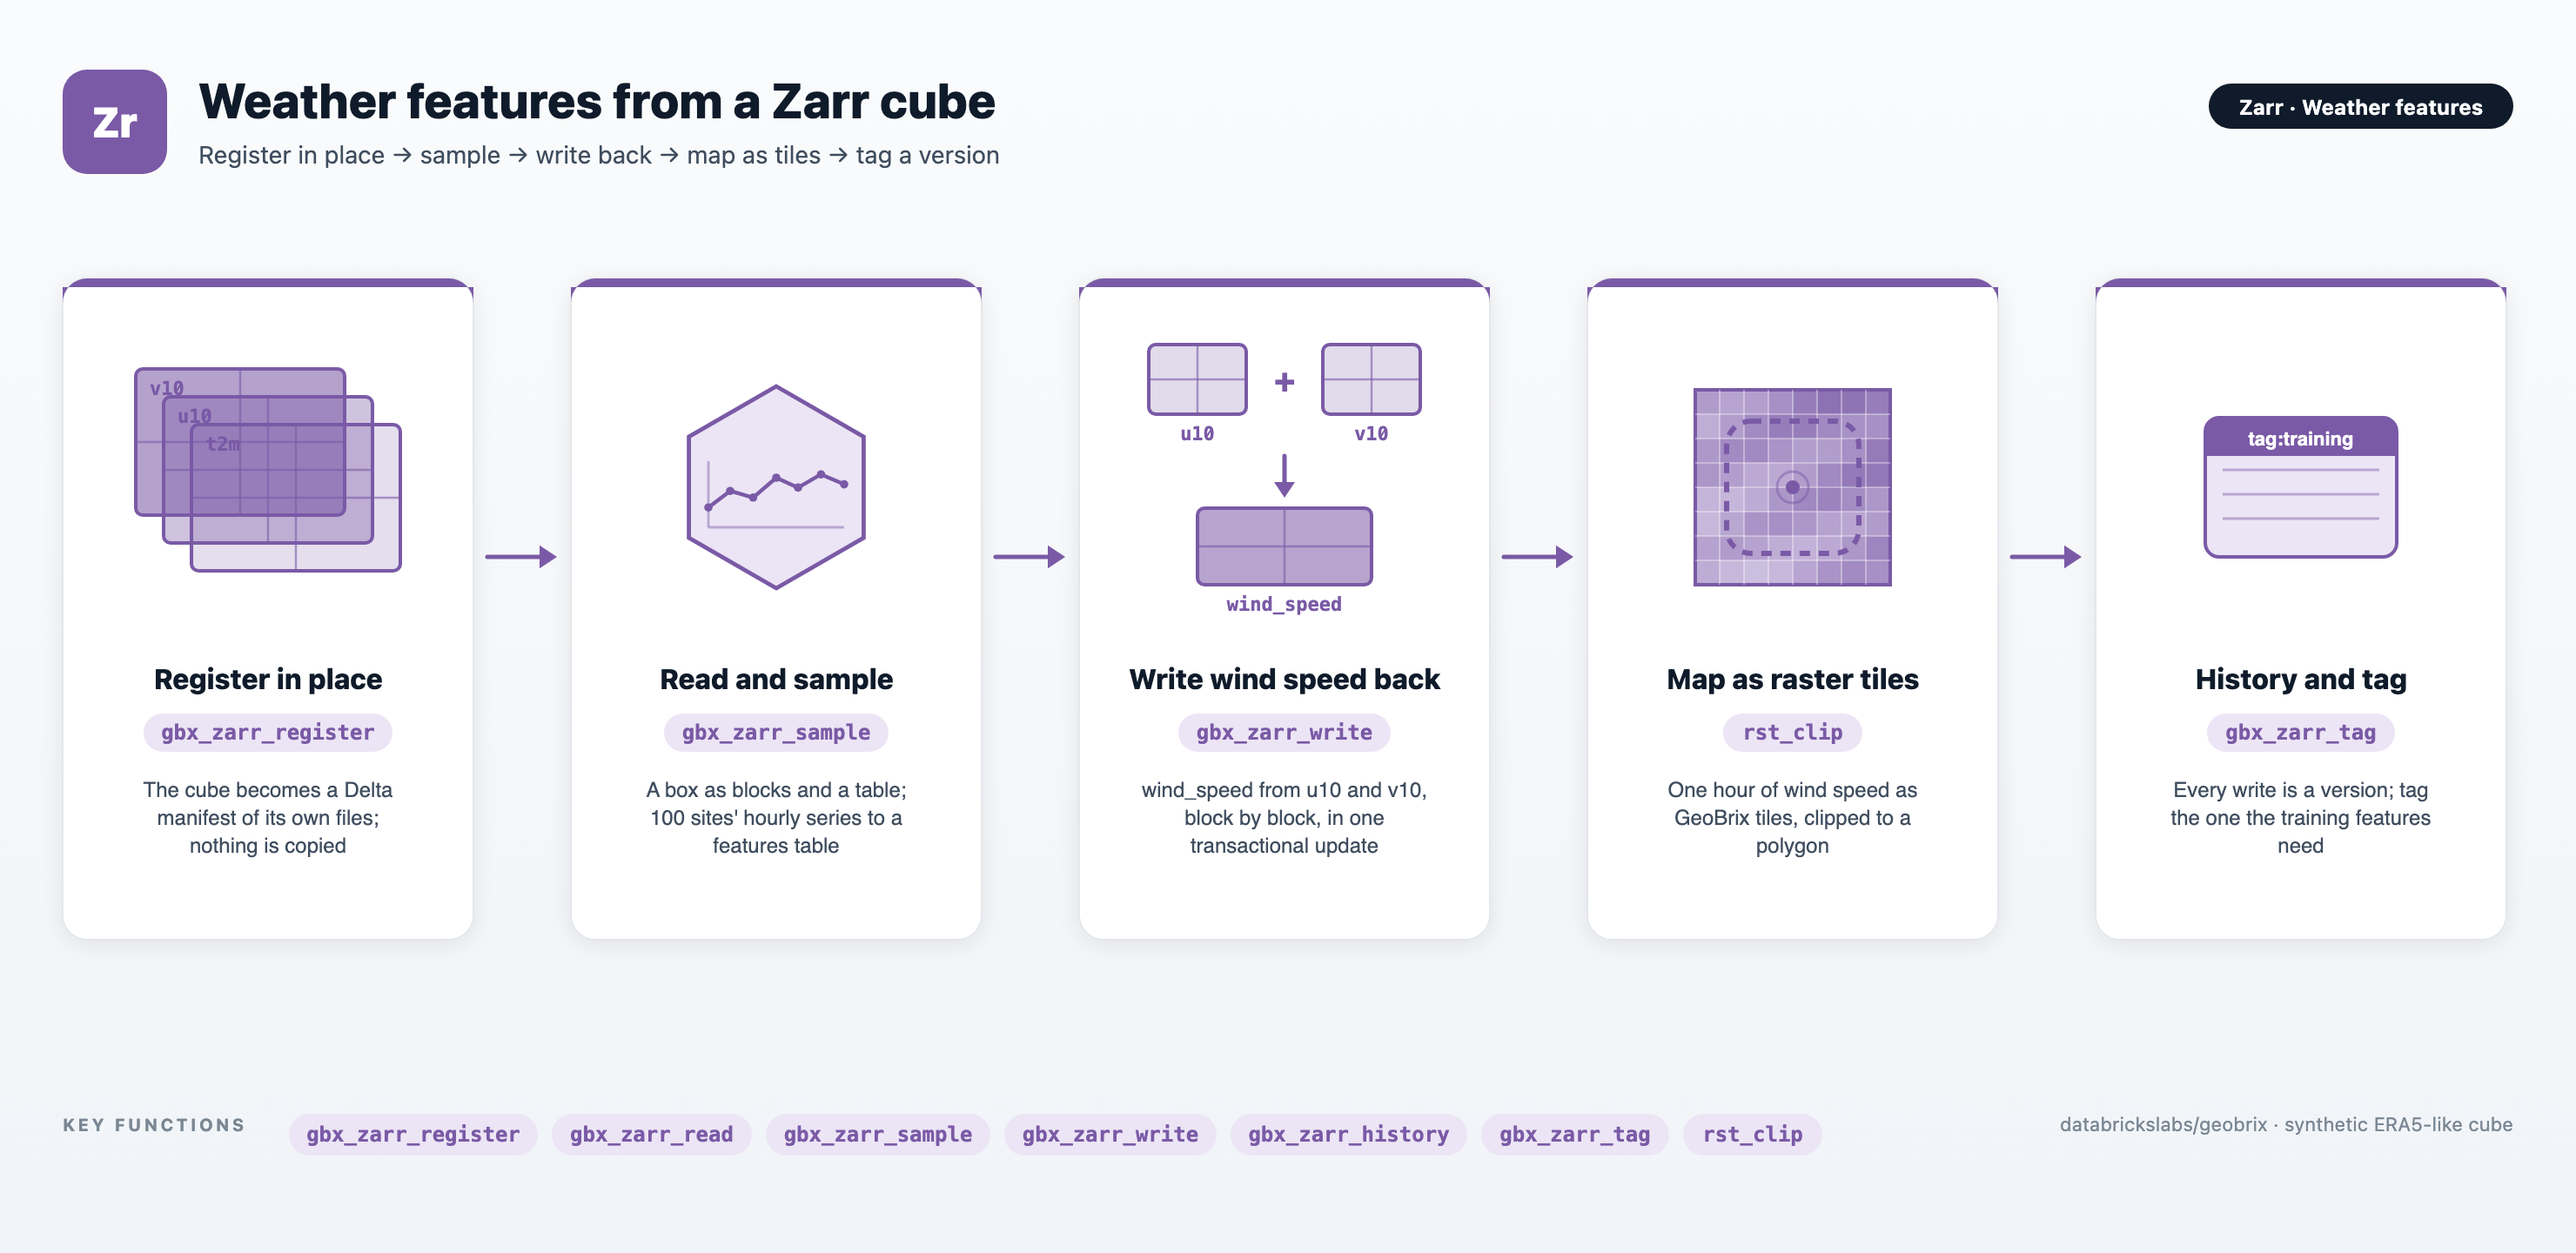
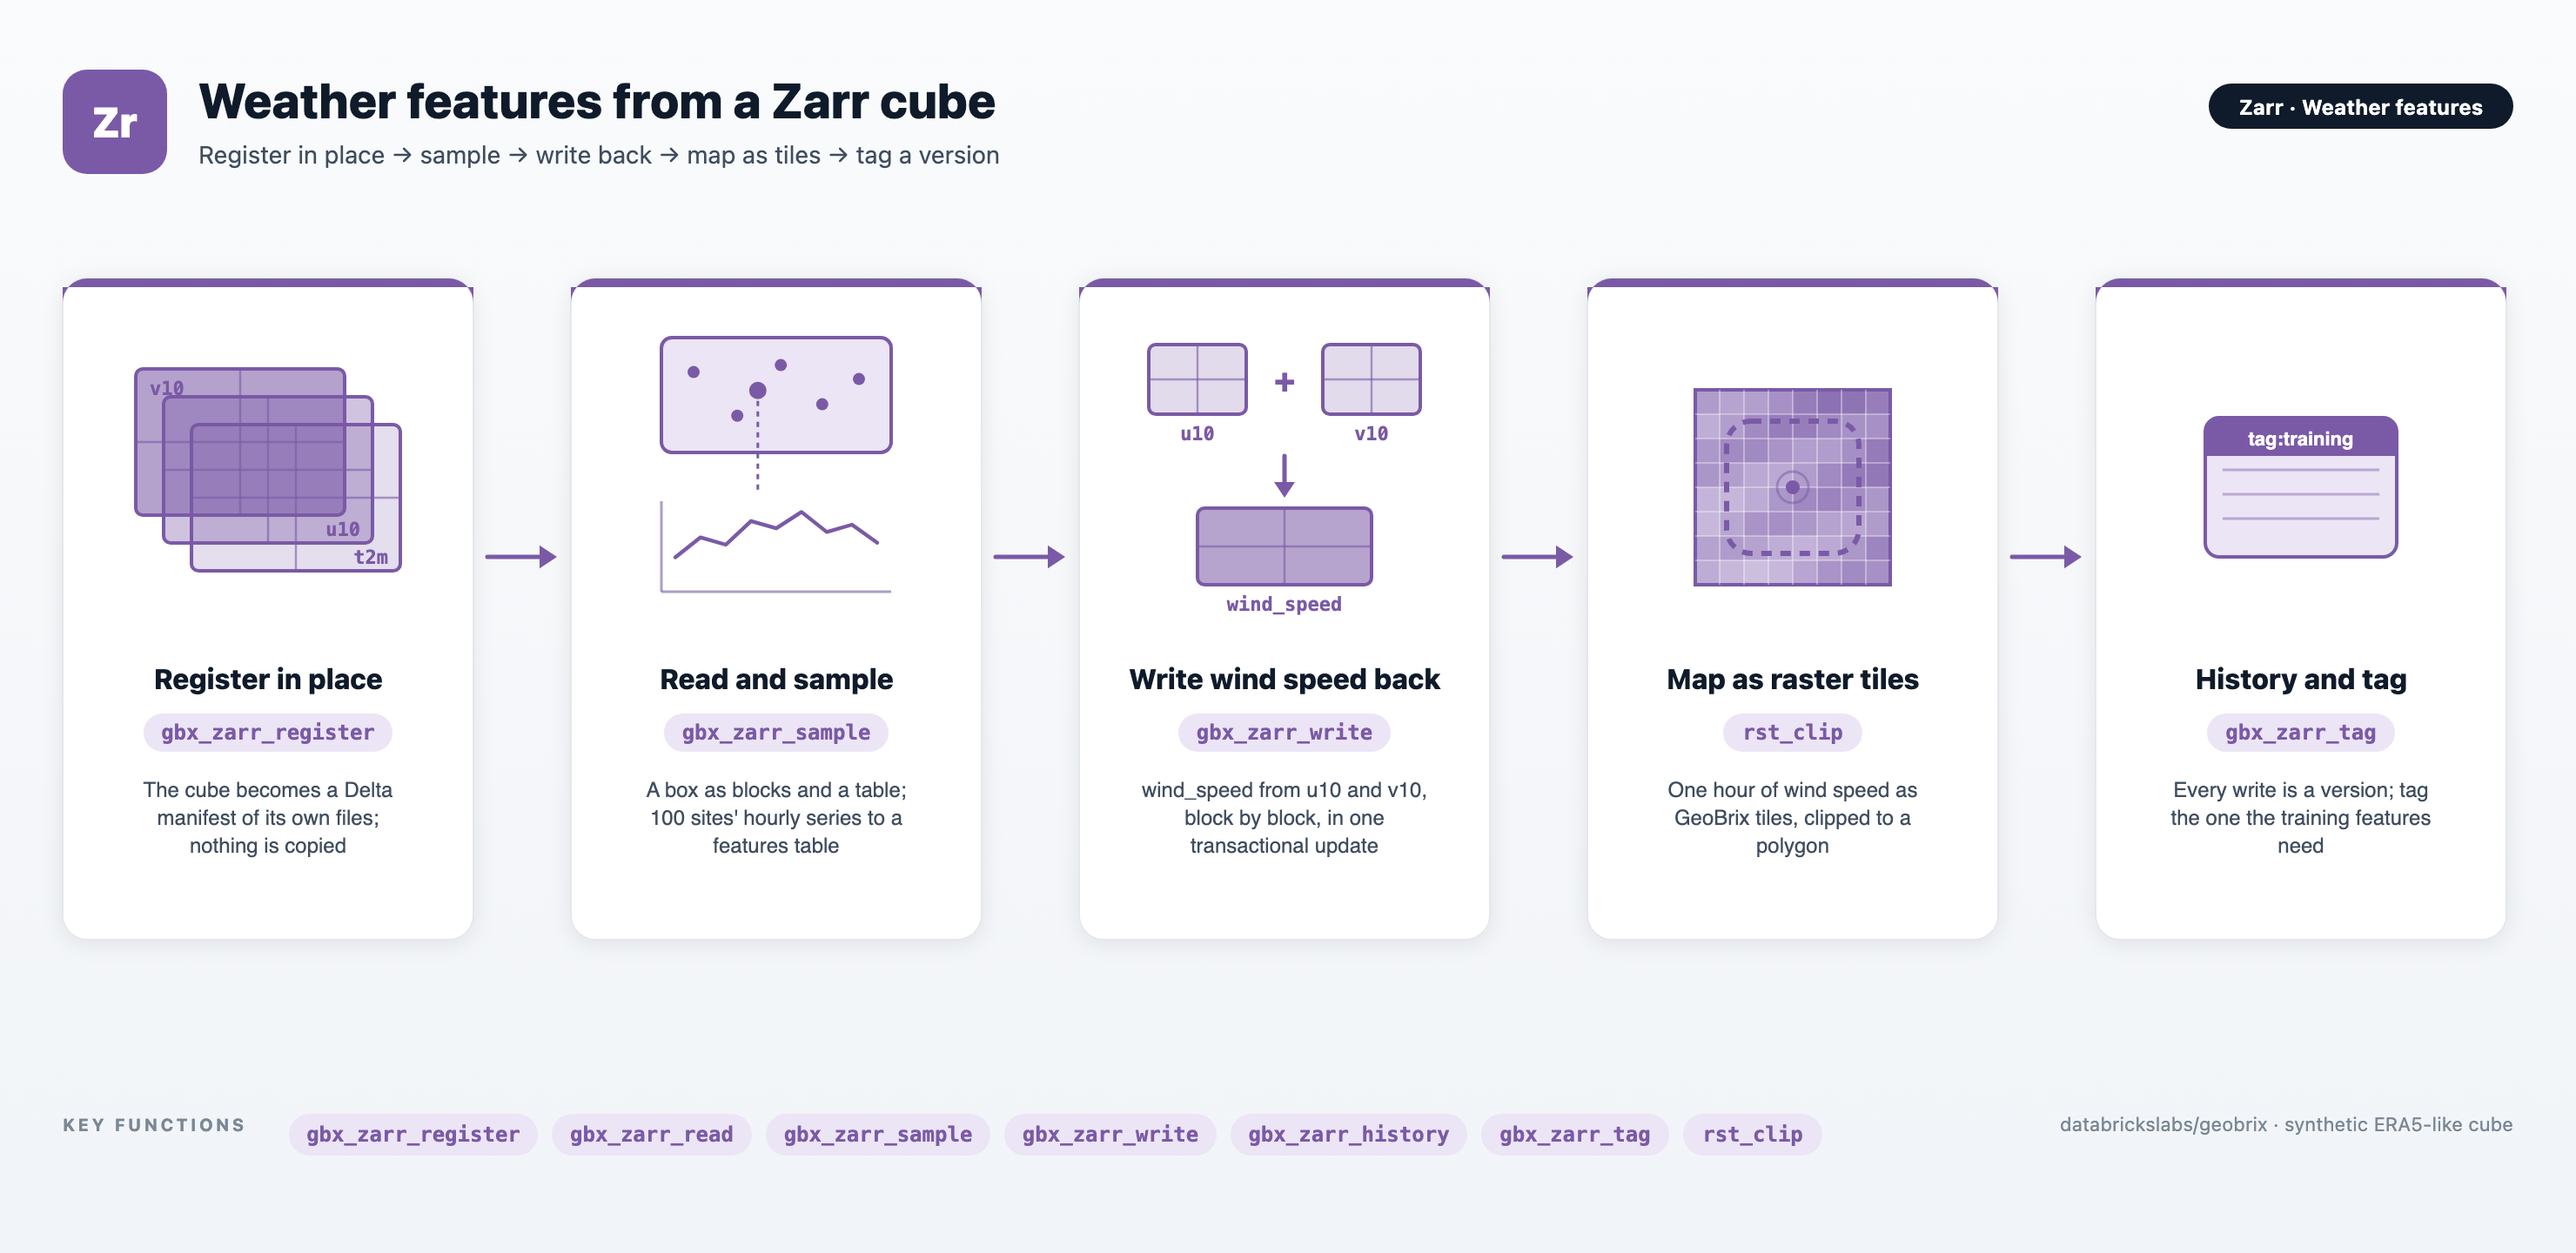
docs(examples): redraw two glyphs of the Zarr weather diagram
The "Read and sample" stage drew a hexagon, which reads as H3, a grid
this notebook never uses; it now shows sampled sites on a map frame and
one site's series. The cube glyph's variable labels were crossed by the
next slab's edges; each label now sits where no edge or chunk line runs.
Regenerated through example-diagrams.py; the other diagrams are untouched.

Changed region(s): [[0.2486, 0.25, 0.373, 0.4688]]

diff --git a/resources/images/generators/example-diagrams.py b/resources/images/generators/example-diagrams.py
@@ -193,12 +193,17 @@ def g_h3_band_stack(cx, cy, color, tint):
 # ---------------------------------------------------------------------------
 
 def g_zarr_cube(cx, cy, color, tint):
-    """Three offset grid slabs (one per variable) with chunk lines, labeled by variable."""
+    """Three offset grid slabs (one per variable) with chunk lines, labeled by variable.
+
+    The slabs are drawn back to front; each label sits where no other slab's edge or chunk line
+    crosses it (the front slab's top-left corner, the bottom-right strip of the others).
+    """
     labels = ["t2m", "u10", "v10"]
     opacities = [0.20, 0.36, 0.56]
     w, h = 120, 84
     skew = 16
-    out = []
+    mono_font = "ui-monospace, SFMono-Regular, Menlo, Consolas, monospace"
+    out, texts = [], []
     for i, (lbl, opacity) in enumerate(zip(labels, opacities)):
         x = cx - w / 2 + (2 - i) * skew - skew
         y = cy - h / 2 + (2 - i) * skew - skew - 10
@@ -214,11 +219,53 @@ def g_zarr_cube(cx, cy, color, tint):
             f'<line x1="{x}" y1="{y + h / 2}" x2="{x + w}" y2="{y + h / 2}" '
             f'stroke="{color}" stroke-opacity="0.6" stroke-width="1.2"/>'
         )
-        out.append(
-            f'<text x="{x + 8}" y="{y + 15}" '
-            f'font-family="ui-monospace, SFMono-Regular, Menlo, Consolas, monospace" '
+        if i == len(labels) - 1:  # the front slab: its top-left corner is clear
+            tx, ty, anchor = x + 8, y + 15, "start"
+        else:  # a slab behind: the strip below the next slab is clear
+            tx, ty, anchor = x + w - 7, y + h - 4, "end"
+        texts.append(
+            f'<text x="{tx}" y="{ty}" text-anchor="{anchor}" font-family="{mono_font}" '
             f'font-size="11" font-weight="700" fill="{color}">{esc(lbl)}</text>'
         )
+    return "".join(out + texts)
+
+
+def g_sites_series(cx, cy, color, tint):
+    """A map frame with sampled sites, and the hourly series of one site below it."""
+    out = []
+    mx, my, mw, mh = cx - 66, cy - 86, 132, 66
+    out.append(
+        f'<rect x="{mx}" y="{my}" rx="6" ry="6" width="{mw}" height="{mh}" '
+        f'fill="{tint}" stroke="{color}" stroke-width="2"/>'
+    )
+    sites = [(0.14, 0.30), (0.33, 0.68), (0.52, 0.24), (0.70, 0.58), (0.86, 0.36), (0.42, 0.46)]
+    for k, (fx, fy) in enumerate(sites):
+        r = 5 if k == len(sites) - 1 else 3.5
+        out.append(
+            f'<circle cx="{mx + fx * mw:.1f}" cy="{my + fy * mh:.1f}" r="{r}" fill="{color}"/>'
+        )
+    # a dashed lead from the highlighted site down to its series
+    sx, sy = mx + sites[-1][0] * mw, my + sites[-1][1] * mh
+    out.append(
+        f'<line x1="{sx:.1f}" y1="{sy + 6:.1f}" x2="{sx:.1f}" y2="{cy + 2}" '
+        f'stroke="{color}" stroke-width="1.5" stroke-dasharray="3 3"/>'
+    )
+    # the series: axes and a polyline
+    ax, ay, aw, ah = cx - 66, cy + 8, 132, 52
+    out.append(
+        f'<line x1="{ax}" y1="{ay + ah}" x2="{ax + aw}" y2="{ay + ah}" '
+        f'stroke="{color}" stroke-opacity="0.6" stroke-width="1.5"/>'
+        f'<line x1="{ax}" y1="{ay}" x2="{ax}" y2="{ay + ah}" '
+        f'stroke="{color}" stroke-opacity="0.6" stroke-width="1.5"/>'
+    )
+    ys = [0.62, 0.40, 0.48, 0.22, 0.30, 0.12, 0.34, 0.26, 0.46]
+    pts = " ".join(
+        f"{ax + 8 + k * (aw - 16) / (len(ys) - 1):.1f},{ay + v * ah:.1f}" for k, v in enumerate(ys)
+    )
+    out.append(
+        f'<polyline points="{pts}" fill="none" stroke="{color}" stroke-width="2.2" '
+        f'stroke-linejoin="round" stroke-linecap="round"/>'
+    )
     return "".join(out)
 
 
@@ -404,7 +451,7 @@ ZARR_WEATHER_FEATURES = dict(
         Stage(
             title="Read and sample",
             subtitle="A box as blocks and a table; 100 sites' hourly series to a features table",
-            glyph=eo.g_timeseries_in_hex,
+            glyph=g_sites_series,
             chip_text="gbx_zarr_sample",
         ),
         Stage(
